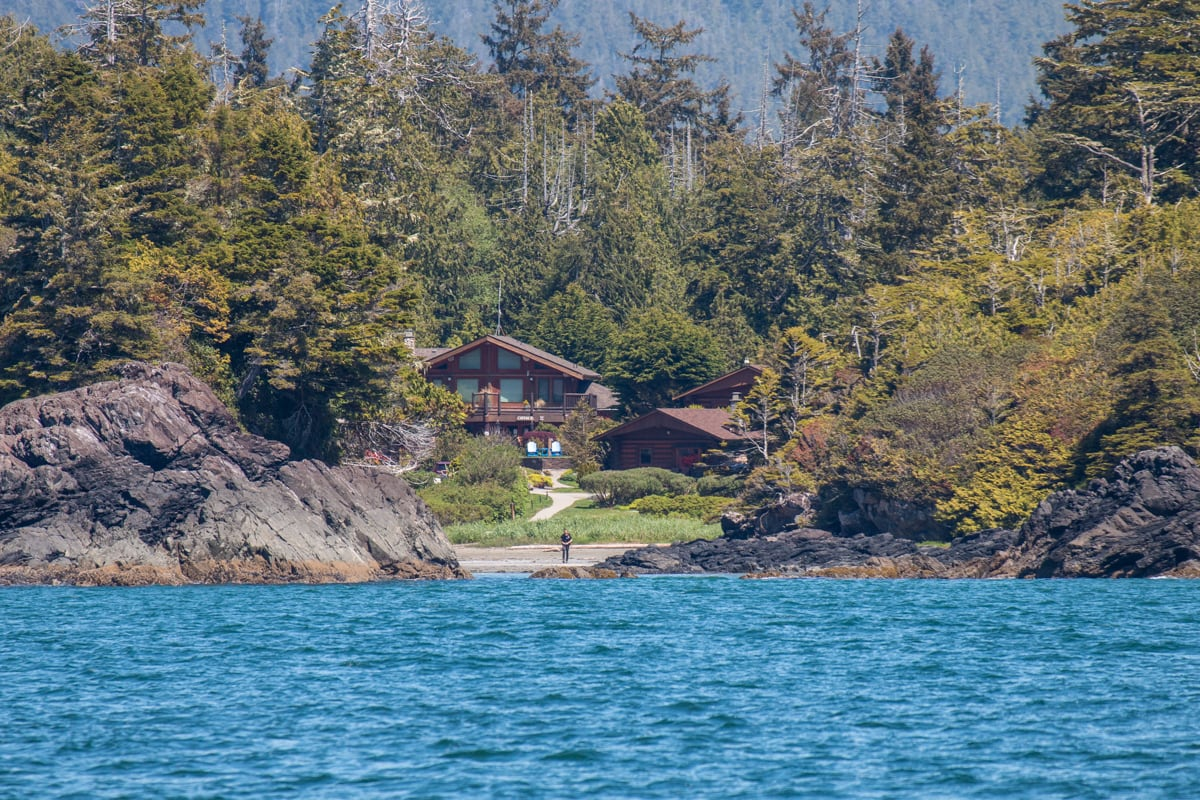
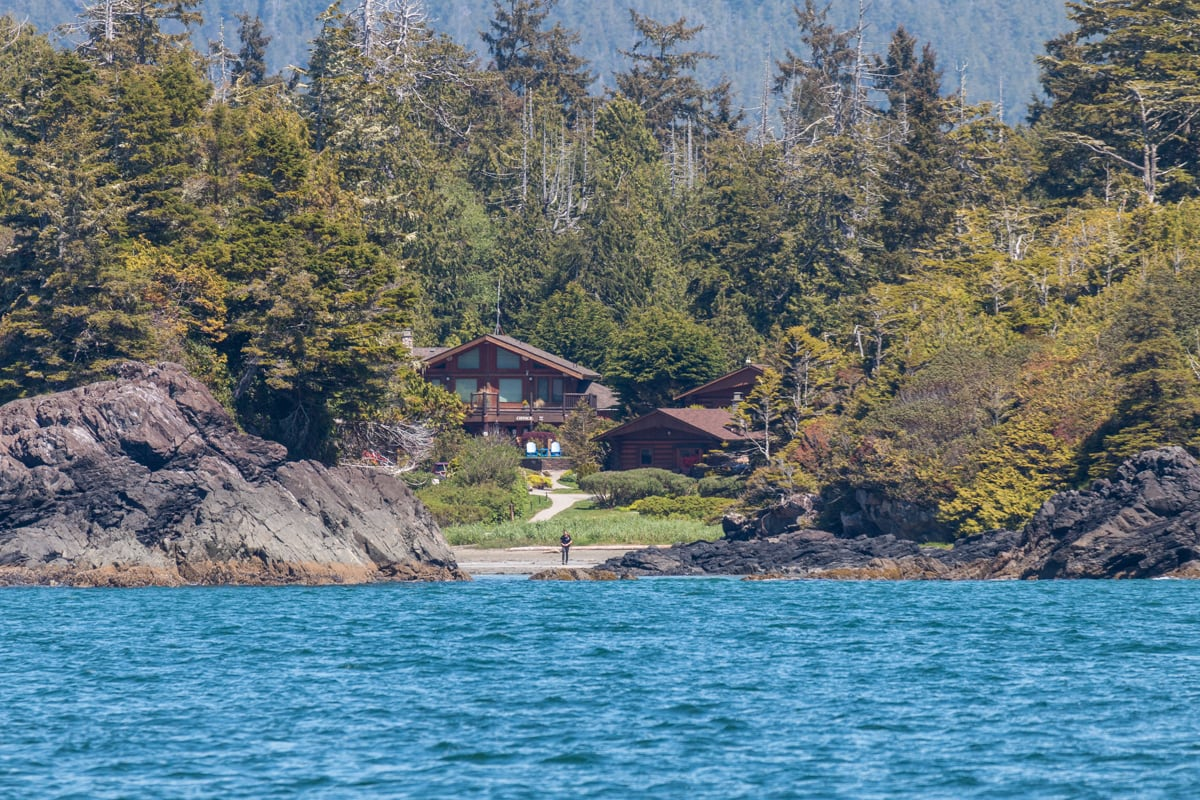
Corrected images, more images, and some minor fixes

diff --git a/layouts/_default/single.html b/layouts/_default/single.html
@@ -26,7 +26,7 @@
             {{ $image := resources.GetMatch $imagepath }}
             {{ $title := .Title }}
             {{ with $image }}
-            {{ with .Resize (printf "%dx%d webp q85" .Width .Height) }}
+            {{ with .Resize (printf "%dx%d webp q95" .Width .Height) }}
             <img id="hero" src="{{ .RelPermalink }}" alt="{{ $title }}" height="{{ .Height }}" width="{{ .Width }}">
             <div id="modal" class="modal" style="background-image: url('{{ .RelPermalink }}')"></div>
             {{ end }}
